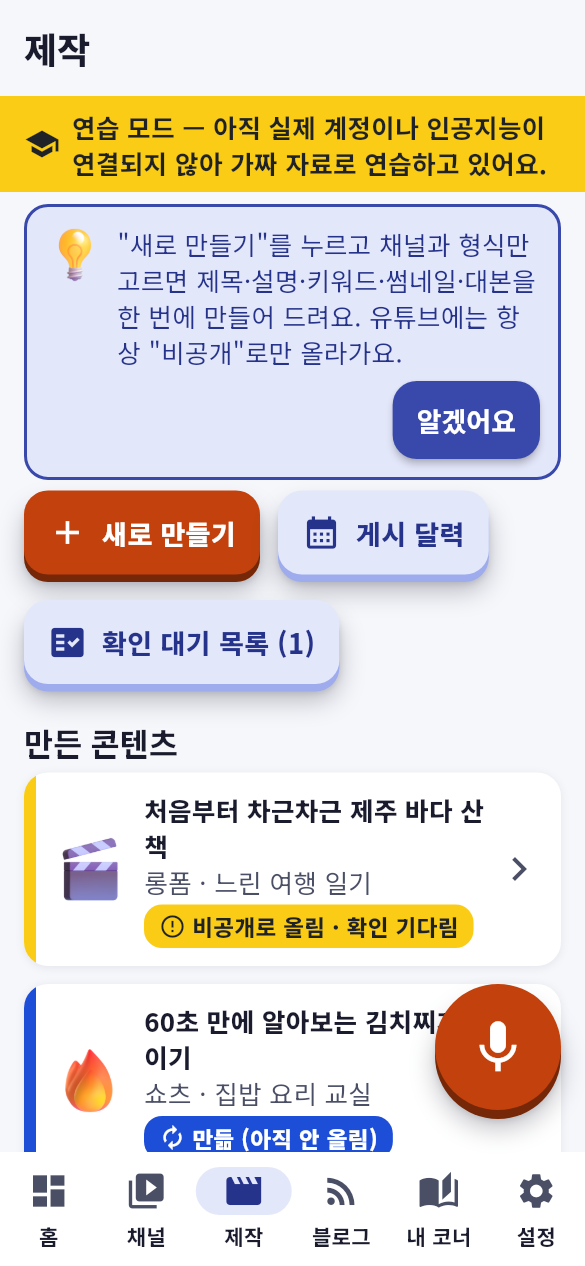
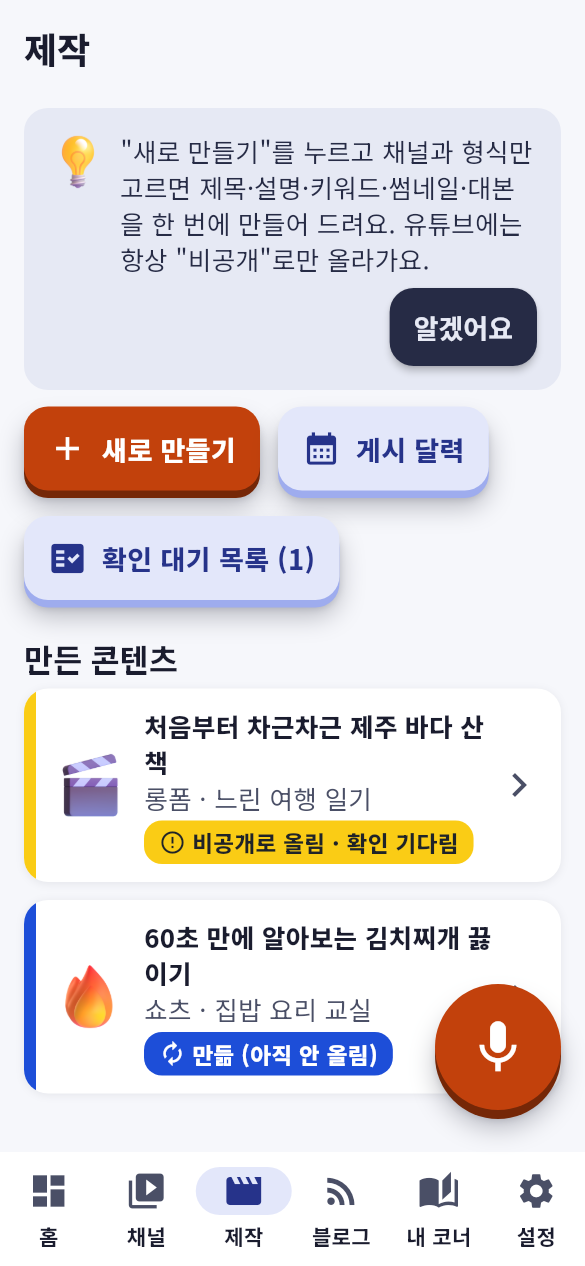
화면 재설계: 안내 말풍선 채운 카드, 전후 비교 사진·점검표(docs/화면/비교), 화면 사진 갱신, 결정 기록
Claude-Session: https://claude.ai/code/session_01F7mUDPiBNSrzb64jZ9gqVQ

diff --git a/app/lib/ui/widgets.dart b/app/lib/ui/widgets.dart
@@ -685,7 +685,7 @@ class _TipBannerState extends State<TipBanner> {
         margin: const EdgeInsets.only(bottom: AppTokens.gapL),
         padding: const EdgeInsets.all(AppTokens.gapL),
         decoration: BoxDecoration(
-          color: t.tonal,
+          color: t.tileBg(Hue.slate),
           borderRadius: BorderRadius.circular(AppTokens.radius),
           border: t.highContrast ? Border.all(color: t.border, width: 2) : null,
         ),
@@ -700,7 +700,7 @@ class _TipBannerState extends State<TipBanner> {
                 Expanded(
                   child: Text(
                     widget.text,
-                    style: TextStyle(color: t.onTonal, fontSize: AppTokens.fontBody),
+                    style: TextStyle(color: t.onTile(Hue.slate), fontSize: AppTokens.fontBody),
                   ),
                 ),
               ],
@@ -709,7 +709,10 @@ class _TipBannerState extends State<TipBanner> {
             Align(
               alignment: Alignment.centerRight,
               child: FilledButton(
-                style: FilledButton.styleFrom(backgroundColor: t.primary, foregroundColor: t.onPrimary),
+                style: FilledButton.styleFrom(
+                  backgroundColor: t.onTile(Hue.slate),
+                  foregroundColor: t.tileBg(Hue.slate),
+                ),
                 onPressed: () {
                   widget.onSeen();
                   setState(() => hidden = true);

diff --git a/docs/화면/비교/README.md b/docs/화면/비교/README.md
@@ -1,0 +1,33 @@
+# 화면 재설계 전후 비교
+
+왼쪽 = 전 (1.1.0), 오른쪽 = 후 (재설계). 모두 390×844 휴대폰 화면, 밝음·어두움 두 가지.
+
+| 화면 | 밝음 | 어두움 |
+|---|---|---|
+| 홈 | 03-홈-밝음-비교.png | 03-홈-어두움-비교.png |
+| 채널 현황 | 04-채널현황-밝음-비교.png | 04-채널현황-어두움-비교.png |
+| 채널 상세 | 05-채널상세-밝음-비교.png | 05-채널상세-어두움-비교.png |
+| 콘텐츠 제작 | 07-콘텐츠제작-밝음-비교.png | 07-콘텐츠제작-어두움-비교.png |
+| 블로그 | 10-블로그-밝음-비교.png | 10-블로그-어두움-비교.png |
+| 설정 | 12-설정-밝음-비교.png | 12-설정-어두움-비교.png |
+
+## 점검표: 가장 먼저 눈에 띄는 요소가 가장 중요한 요소인가
+
+| 화면 | 가장 중요한 것 | 전 | 후 |
+|---|---|---|---|
+| 홈 | 오늘 할 일 | ✗ 같은 어두운 테두리 상자 중 하나. 아래 원형 게이지 상자가 더 크게 보임 | ✓ 가득 찬 폭, 가장 큰 카드, 상태 색(노랑)으로 채움, 큰 3D 그림 |
+| 홈 | 채널·제작 | ✗ 같은 크기 상자 6개가 세로로 나열 | ✓ 2열 중간 크기, 파랑·보라 타일, 큰 숫자 |
+| 홈 | 사용량·비용 | ✗ 원형 게이지 두 개가 한 화면을 차지 | ✓ 작은 띠 하나에 큰 숫자 두 개 + 얇은 막대 |
+| 채널 현황 | 채널 이름·상태 | △ 굵은 초록 테두리가 이름보다 먼저 보임 | ✓ 큰 썸네일(160) + 큰 이름, 상태는 왼쪽 띠와 배지, 숫자 3개는 아이콘과 한 줄 |
+| 설정 | 연결 상태·문제 신고·업데이트 | ✓ 맨 위 | ✓ 맨 위 그대로 |
+| 설정 | 항목 찾기 | ✗ 같은 상자 10개 나열 | ✓ 색 머리가 있는 묶음 5개 (계정 연결·인공지능·자동 작업·보기와 듣기·자료 관리) |
+| 설정 | 모두 지우기 | △ 다른 버튼들 사이 | ✓ 맨 아래 빨간 카드에 따로 |
+| 제작·블로그·내 코너 | 시작 버튼 | ✓ 주황 큰 버튼 | ✓ 그대로, 안내 말풍선은 테두리 없는 채운 카드 |
+
+## 그 밖의 원칙 확인
+- 테두리는 선택·상태 표시(끊긴 채널의 빨간 테두리, 고대비 모드)에만. 나머지는 채운 카드 + 부드러운 그림자.
+- 어두운 모드에서 카드는 바탕보다 한 단계 밝고, 영역 타일은 중간 채도 (어두운 바탕 위 어두운 상자 없음). 대비는 `app/test/redesign_test.dart` 가 4가지 테마 모두 4.5:1 이상인지 확인.
+- 글씨 5단계 (큰 숫자 34 / 제목 26 / 묶음 21 / 본문 17 / 작은 글 15), 카드 사이 간격 24 (예전 16의 1.5배).
+- 같은 크기 상자 3개 이상을 한 줄에 놓지 않음 (넓은 화면에서도, 테스트로 확인).
+
+다시 만들기: `cd app && SHOTS=1 flutter test --run-skipped --tags tool test/tool_screens_test.dart` 뒤 이 폴더의 합치기 순서대로.

diff --git a/DECISIONS.md b/DECISIONS.md
@@ -68,3 +68,7 @@
 | 62 | (업데이트) 안드로이드 서명 키는 GitHub 비밀 값으로만 받음. 없으면 테스트용 서명 + 경고 | 키 파일 커밋 금지 규칙. 같은 키여야 덮어쓰기가 되므로 README 에 만드는 법과 1회 재설치 안내 |
 | 63 | (업데이트) 자료 버전 6 = app_versions 표 (쓴 버전과 처음 연 시각). 쓰던 자료(계정·제작·메모)가 있으면 "첫 실행 안내 끝남" 표시가 없어도 안내를 건너뜀 | 지시서 "설정이 있으면 첫 실행 마법사 건너뛰기". 새 설정 값은 읽을 때 기본값이라 따로 넣을 필요 없음 |
 | 64 | (업데이트) 업데이트 시험 자료는 1.1.0 커밋(262cae4)의 코드로 실제로 만든 자료 폴더를 저장소에 넣음 (test/fixtures/v1.1.0, 250KB). 열쇠는 가짜 값 | "실제 v5 파일로 테스트". 만든 코드도 함께 보관 |
+| 65 | (재설계) 영역 색: 채널 파랑·제작 보라·확인 대기 노랑·블로그 주황·내 코너 초록·위험 빨강·그 밖 회청. 밝은 모드는 파스텔 + 진한 글자, 어두운 모드는 중간 채도 + 흰 글자(노랑만 검은 글자) | 지시서 6-1. 모든 조합 대비 4.5:1 이상을 테스트로 확인 |
+| 66 | (재설계) 홈 순서: 인사 → 오늘 할 일(가장 큼) → 사용량 띠(작음) → 채널·제작(2열 중간) → 확인 대기·블로그(2열 작음) → 내 코너(한 줄) → 브리핑·수정 요약. 설정 타일은 아래 메뉴에 있어 홈에서 뺌 | 크기로 중요도. 사용량 띠는 기존 흐름 테스트가 홈 첫 화면에서 사용량 문구를 확인하므로 오늘 할 일 바로 아래 (작은 띠라 눈길을 뺏지 않음) |
+| 67 | (재설계) 설정 묶음 안의 항목은 카드 없이 제목 + 내용 + 구분선 (상자 안 상자 금지). 2~4단계가 붙이는 설정도 자동으로 같은 모양 | 묶음 카드 안에 또 카드가 있으면 다시 "같은 상자 나열"이 됨 |
+| 68 | (재설계) 채널 카드: 휴대폰 폭에서는 썸네일을 위에, 넓은 화면에서는 왼쪽에. 숫자 3개는 넘치면 글씨를 줄여 한 줄 유지 | 썸네일 160 옆에 이름을 두면 휴대폰에서 이름이 두 줄로 잘림 |
